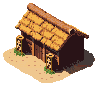
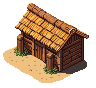
feat(grain): les ports fluviaux, quatre paliers a ecart zero
Maison medievale a colombage, entrepot industriel de brique, halle romaine a
arcade, bureau de port moderne. Le quai, le ponton et le bateau restent des
sprites separes poses par le jeu.

Deux etiquettes corrigees: une porte de 28 px est MONUMENTALE, une de 21 px
est DOMESTIQUE — l agent avait interverti les deux, ce qui les sortait de leur
bande sans que le dessin soit en cause. Troisieme fois que l ecart vient de la
classification et non de l art.

L enseigne du port moderne a ete aplatie: le miroir de lumiere avait inverse
son texte, et une lettre a l envers reste une lettre a l envers.

Changed region(s): [[0.125, 0.0227, 1.0, 0.8636], [0.2812, 0.7727, 0.3438, 0.8182]]

diff --git a/src/game/map/spriteScale.js b/src/game/map/spriteScale.js
@@ -88,6 +88,8 @@ export const PALIER_SPANSUM = {
   'universities-gothic-grand': 6, 'universities-prop-hall-grand': 6,
   'universities-collegiate-grand': 6, 'universities-modern-grand': 6,
   'universities-classical-grand': 6,
+  'port-house-medieval-grand': 6, 'port-house-industrial-grand': 6,
+  'port-house-classical-grand': 6, 'port-house-modern-grand': 6,
 };
 
 // Hauteur de calibrage d'un palier, en fraction de sa boîte. 0,7 partout sauf
